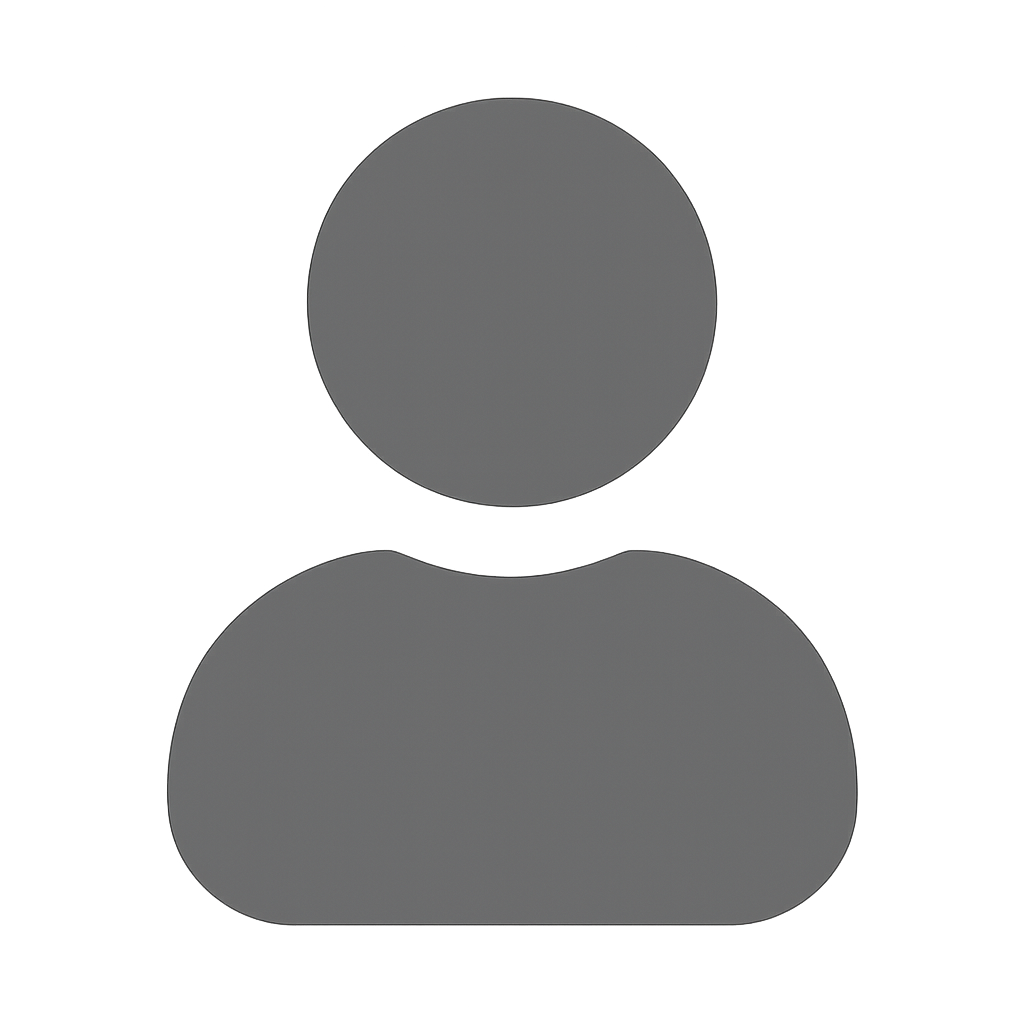
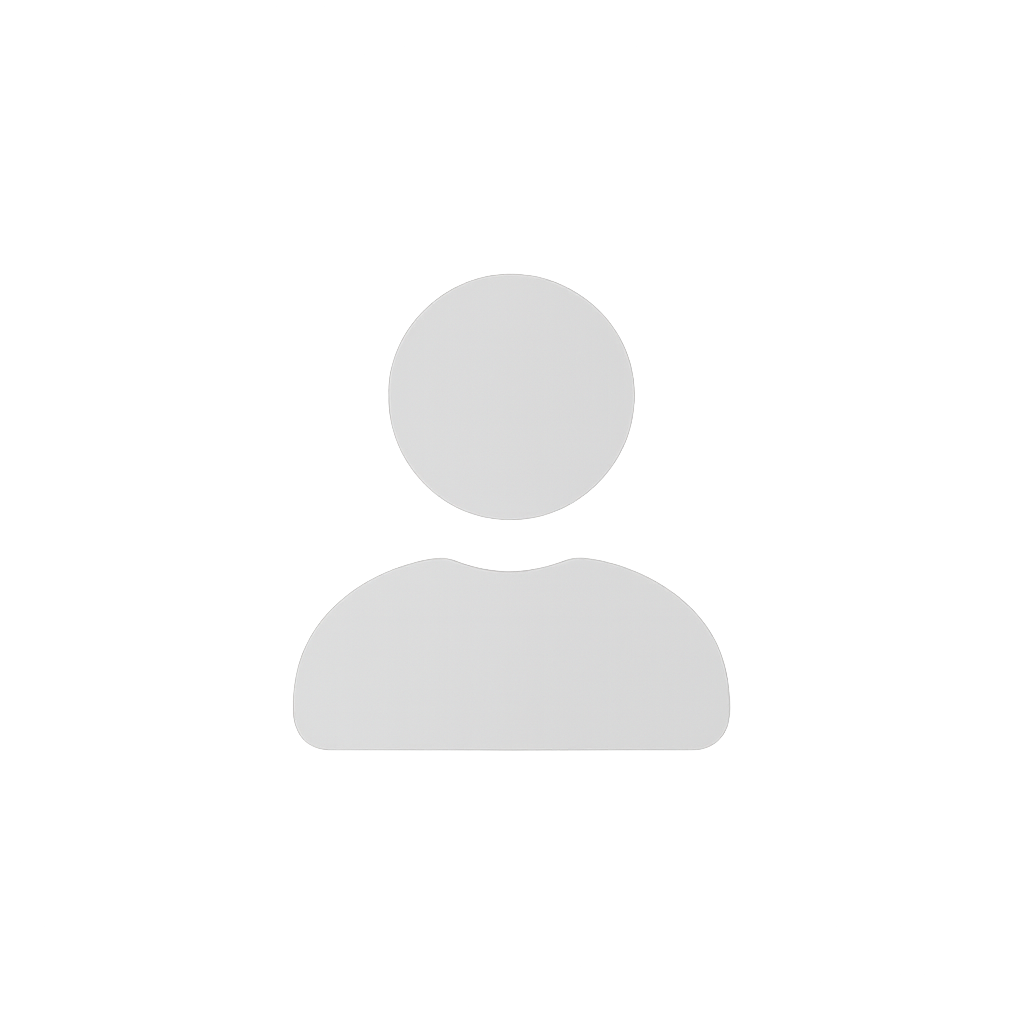
Profile section improved and default view when data doesn't come.

diff --git a/src/app/pages/dashboard/pages/evaluted-repos/evaluated-repos.component.html b/src/app/pages/dashboard/pages/evaluted-repos/evaluated-repos.component.html
@@ -3,7 +3,7 @@
     Evaluated Repositories
   </h1>
   <div class="grid grid-cols-3 gap-4">
-    @if (evaluations()) {
+    @if (evaluations() && evaluations()!.length > 0) {
       @for (evaluation of evaluations(); track evaluation.id) {
         <mat-card appearance="outlined" class="flex flex-col h-full">
           <mat-card-content class="flex-grow">
@@ -37,6 +37,22 @@
           </mat-card-content>
         </mat-card>
       }
+    } @else {
+      <div class="flex flex-col items-center justify-center col-span-3 py-12 bg-gray-50 rounded-lg shadow-inner">
+        <p class="text-gray-600 text-lg text-center mb-4">
+          No evaluations have been created yet.
+        </p>
+        <p class="text-gray-500 text-center mb-6 max-w-md">
+          To start evaluating a repository, please go to the registration section.
+        </p>
+        <a
+          [routerLink]="['/admin/register-repositories']"
+          class="inline-block px-6 py-2 bg-primary text-white font-medium rounded hover:bg-primary-dark transition"
+          mat-flat-button
+        >
+          Register New Repository
+        </a>
+      </div>
     }
   </div>
 </div>

diff --git a/src/app/pages/dashboard/pages/rules-groups/rules-groups.component.html b/src/app/pages/dashboard/pages/rules-groups/rules-groups.component.html
@@ -3,7 +3,7 @@
     Rules Group
   </h1>
   <div class="grid grid-cols-3 gap-4">
-    @if (rulesGroups()) {
+    @if (rulesGroups() && rulesGroups()!.length > 0) {
       @for (rulesGroup of rulesGroups(); track rulesGroup.id) {
         <mat-card appearance="outlined">
           <mat-card-content>
@@ -23,6 +23,22 @@
           </mat-card-content>
         </mat-card>
       }
+    } @else {
+      <div class="flex flex-col items-center justify-center col-span-3 py-12 bg-gray-50 rounded-lg shadow-inner">
+        <p class="text-gray-600 text-lg text-center mb-4">
+          No rule groups have been created yet.
+        </p>
+        <p class="text-gray-500 text-center mb-6 max-w-md">
+          To begin defining rule groups for your repositories, please visit the rule group creation section.
+        </p>
+        <a
+          [routerLink]="['/admin/create-rules-group']"
+          class="inline-block px-6 py-2 bg-primary text-white font-medium rounded hover:bg-primary-dark transition"
+          mat-flat-button
+        >
+          Create Rules Group
+        </a>
+      </div>
     }
   </div>
 </div>

diff --git a/src/app/pages/dashboard/pages/register-repos/register-repos.component.ts b/src/app/pages/dashboard/pages/register-repos/register-repos.component.ts
@@ -1,4 +1,4 @@
-import { Component, inject, OnInit, signal, Signal, ViewChild } from '@angular/core';
+import { Component, effect, inject, OnInit, signal, Signal, ViewChild } from '@angular/core';
 import {
   FormBuilder,
   Validators,
@@ -83,6 +83,18 @@ export class RegisterReposComponent implements OnInit {
 
     this._rulesFacade.loadRulesGroups();
     this.rulesGroups = this._rulesFacade.rulesGroups;
+
+    effect(() => {
+      const groups = this.rulesGroups();
+      const control = this.secondFormGroup.get('rule_group_id');
+      if (!control) return;
+
+      if (!groups || groups.length === 0) {
+        control.disable({ emitEvent: false });
+      } else {
+        control.enable({ emitEvent: false });
+      }
+    });
 
     this.firstFormGroup.get('language_id')?.valueChanges.subscribe(selectedId => {
       const lang = this.languages()?.find(l => l.id === selectedId);

diff --git a/src/app/pages/dashboard/pages/evaluted-repos/evaluated-repos.component.ts b/src/app/pages/dashboard/pages/evaluted-repos/evaluated-repos.component.ts
@@ -8,6 +8,7 @@ import { LanguageFacade } from '../../../../shared/facades/language.facade';
 import { Language } from '../../../../shared/models/language.model';
 import { MatDialog } from '@angular/material/dialog';
 import { EvaluationDetailsComponent } from '../../components/evaluation-details/evaluation-details.component';
+import { JsonPipe } from '@angular/common';
 
 @Component({
   templateUrl: './evaluated-repos.component.html',
@@ -15,7 +16,8 @@ import { EvaluationDetailsComponent } from '../../components/evaluation-details/
   imports: [
     MatCardModule,
     MatButtonModule,
-    RouterModule
+    RouterModule,
+    JsonPipe
   ],
 })
 export class EvaluatedReposComponent implements OnInit {

diff --git a/src/app/pages/dashboard/pages/rules-groups/rules-groups.component.ts b/src/app/pages/dashboard/pages/rules-groups/rules-groups.component.ts
@@ -4,11 +4,12 @@ import { MatCardModule } from '@angular/material/card';
 import { RulesFacade } from '../../../../shared/facades/rules.facade';
 import { JsonPipe } from '@angular/common';
 import { RulesGroup } from '../../../../shared/models/rule.model';
+import { RouterModule } from '@angular/router';
 
 @Component({
   templateUrl: './rules-groups.component.html',
   standalone: true,
-  imports: [MatCardModule, MatButtonModule, JsonPipe],
+  imports: [MatCardModule, MatButtonModule, JsonPipe, RouterModule],
 })
 export class RulesGroupsComponent implements OnInit {
   rulesFacade = inject(RulesFacade);

diff --git a/src/app/pages/dashboard/pages/create-rules-group/create-rules-group.component.ts b/src/app/pages/dashboard/pages/create-rules-group/create-rules-group.component.ts
@@ -1,4 +1,4 @@
-import { Component, inject, model, OnInit, signal, Signal } from '@angular/core';
+import { Component, effect, inject, OnInit, Signal } from '@angular/core';
 import { MatInputModule } from '@angular/material/input';
 import { MatIconModule } from '@angular/material/icon';
 import { MatChipsModule } from '@angular/material/chips';

diff --git a/src/app/pages/dashboard/components/user-profile/user-profile.component.html b/src/app/pages/dashboard/components/user-profile/user-profile.component.html
@@ -3,7 +3,7 @@
 <mat-dialog-content>
   <div class="flex items-center space-x-4">
     <img
-      class="w-20 h-20 rounded-full bgr-white"
+      class="w-20 h-20 rounded-full bg-white"
       [src]="
         userInfo()?.profile_metadata?.profile_photo ||
         '/assets/images/default-profile-photo.png'
